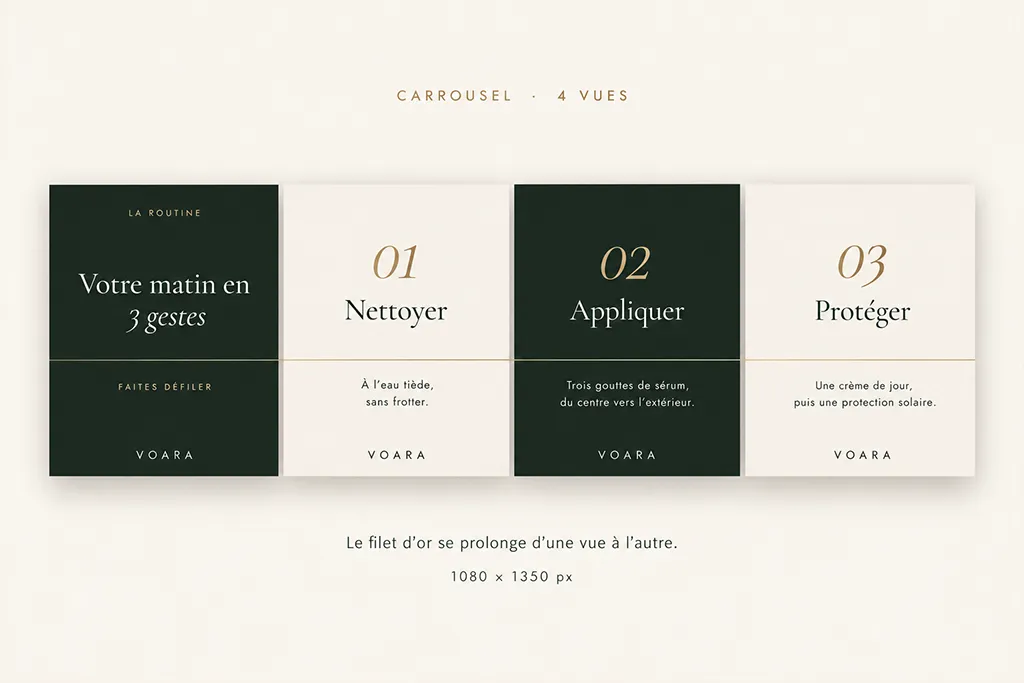
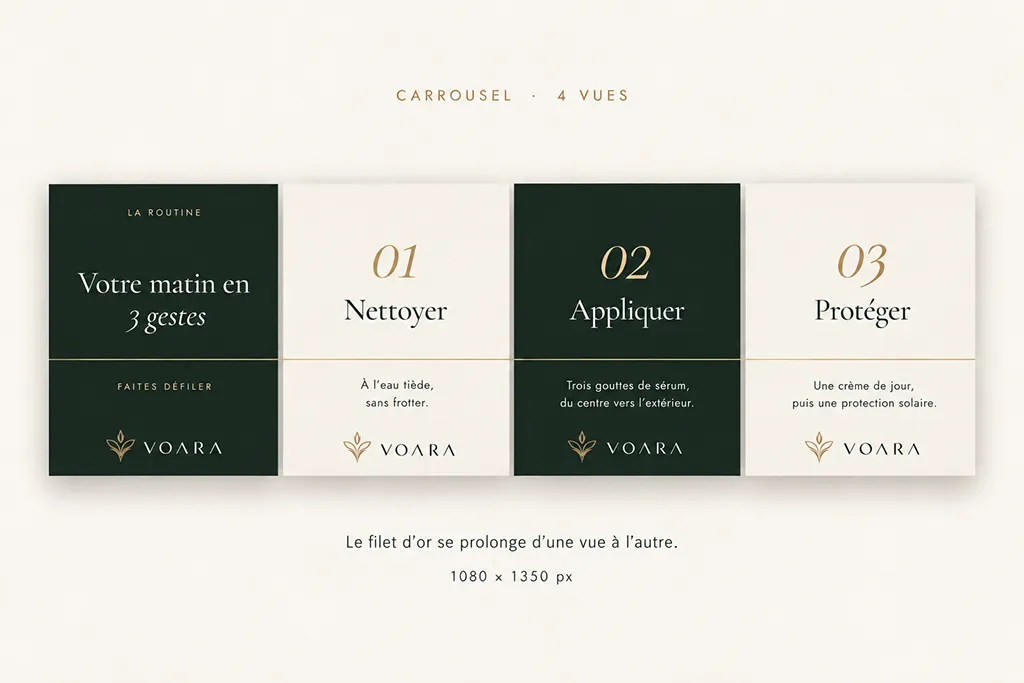
Voara : projet publié dans le portfolio et sur l'accueil
- Brouillon retiré, accueil: true
- Planche 4 remplacée par la version du propriétaire (logo harmonisé)
- Accueil maintenu à quatre cartes
- Historique mis à jour

diff --git a/HISTORIQUE.md b/HISTORIQUE.md
@@ -26,7 +26,7 @@ Dernière mise à jour : 03/10/2026
 - **Contrainte** : les vrais projets du propriétaire n'ont pas l'accord des clients pour être publiés. Décision : deux **projets concept** (marques fictives, annoncés comme tels), ciblés sur ce que l'agence produit (réseaux sociaux, bannières, e-mailing pour des marques de beauté et de grande consommation).
 - **Fait** : briefs dans `briefs/`, fiches `_projets/campagne-reseaux-sociaux-voara.md` et `_projets/campagne-publicitaire-bao-fizz.md` en brouillon, avec des images provisoires dans `portfolio/<nom>/img/`.
 - **Voara** : direction artistique « luxe calme » dans `briefs/voara-direction-artistique.html`. À la demande du propriétaire, les huit visuels et les cinq planches ont été **générés par l'assistant** (script `briefs/outils/generer-visuels-voara.py`, Pillow) : flacon dessiné, aucune photographie. Visuels en taille réelle dans `briefs/voara-visuels/`, planches du site dans `portfolio/campagne-reseaux-sociaux-voara/img/`. La fiche reste en brouillon : le propriétaire doit valider, et idéalement refaire les visuels avec ses outils (la fiche annonce Photoshop et Illustrator, ce qui n'est pas vrai des images générées).
-- **Voara, suite** : le 03/10/2026 au soir, le propriétaire a remplacé la couverture et les quatre planches par ses propres versions retravaillées (flacon et fruit de baobab photoréalistes, emblème végétal ajouté au logo). Les fichiers de `briefs/voara-visuels/` et le script correspondent donc à l'ancienne version générée, plus à ce qui est en ligne. Reste à confirmer avec lui : les outils à afficher sur la fiche, et le retrait de `brouillon`.
+- **Voara, suite** : le 03/10/2026 au soir, le propriétaire a remplacé la couverture et les quatre planches par ses propres versions retravaillées (flacon et fruit de baobab photoréalistes, emblème végétal ajouté au logo). Les fichiers de `briefs/voara-visuels/` et le script correspondent donc à l'ancienne version générée, plus à ce qui est en ligne. Le propriétaire a ensuite validé : outils Photoshop et Illustrator, `brouillon` retiré, projet affiché sur l'accueil (`accueil: true`), planche 4 remplacée par une version au logo harmonisé. **Le projet Voara est terminé et sera publié à la prochaine mise en production.**
 - **Bao Fizz** : visuels à créer par le propriétaire en suivant le brief ; images provisoires en place.
 - **À faire ensuite** : relire les textes des deux pages par rapport aux visuels réels, retirer `brouillon` et `sitemap: false`, éventuellement passer `accueil: true`, puis rédiger la réponse à l'agence (tarif journalier à fixer avec le propriétaire).
 - **Questions sans réponse** : le projet Aquafish est-il un vrai client ? (s'il est fictif : `concept: true` et retirer le témoignage) ; faut-il mettre la nouvelle version en production avant de répondre à l'agence ?
@@ -144,3 +144,7 @@ Liste complète et ordre de traitement proposé : voir [AUDIT.md](AUDIT.md). Rap
 
 **Voara : planches du propriétaire**
 - Les cinq images de `portfolio/campagne-reseaux-sociaux-voara/img/` sont désormais celles du propriétaire (WebP, 1024 × 683 px, vérifiées). Envoyées sur la version de test.
+
+**Voara publié dans le portfolio**
+- `brouillon` et `sitemap: false` retirés de la fiche ; `accueil: true` ajouté.
+- Accueil : pour garder quatre cartes, `accueil` a été retiré du visuel « Photo de couverture Facebook » de `_data/visuels.yml` (il reste dans la page portfolio).

diff --git a/_projets/campagne-reseaux-sociaux-voara.md b/_projets/campagne-reseaux-sociaux-voara.md
@@ -2,11 +2,6 @@
 # Adresse de la page : /portfolio/campagne-reseaux-sociaux-voara/
 # Brief de création : briefs/01-voara-campagne-reseaux-sociaux.md
 
-# Brouillon : visible sur la version de test, masqué du portfolio en production.
-# Supprimer les deux lignes suivantes quand les vrais visuels sont en place.
-brouillon: true
-sitemap: false
-
 # Projet concept : la marque est fictive, c'est indiqué sur la carte et sur la page.
 concept: true
 
@@ -18,6 +13,7 @@ description: "Projet concept : posts Instagram, story et carrousel pour le lance
 
 # Carte dans la grille du portfolio
 ordre: 0.1
+accueil: true
 categorie: social
 titre_carte: "Campagne réseaux sociaux Voara"
 resume: "Posts, story et carrousel pour le lancement d'un sérum"
